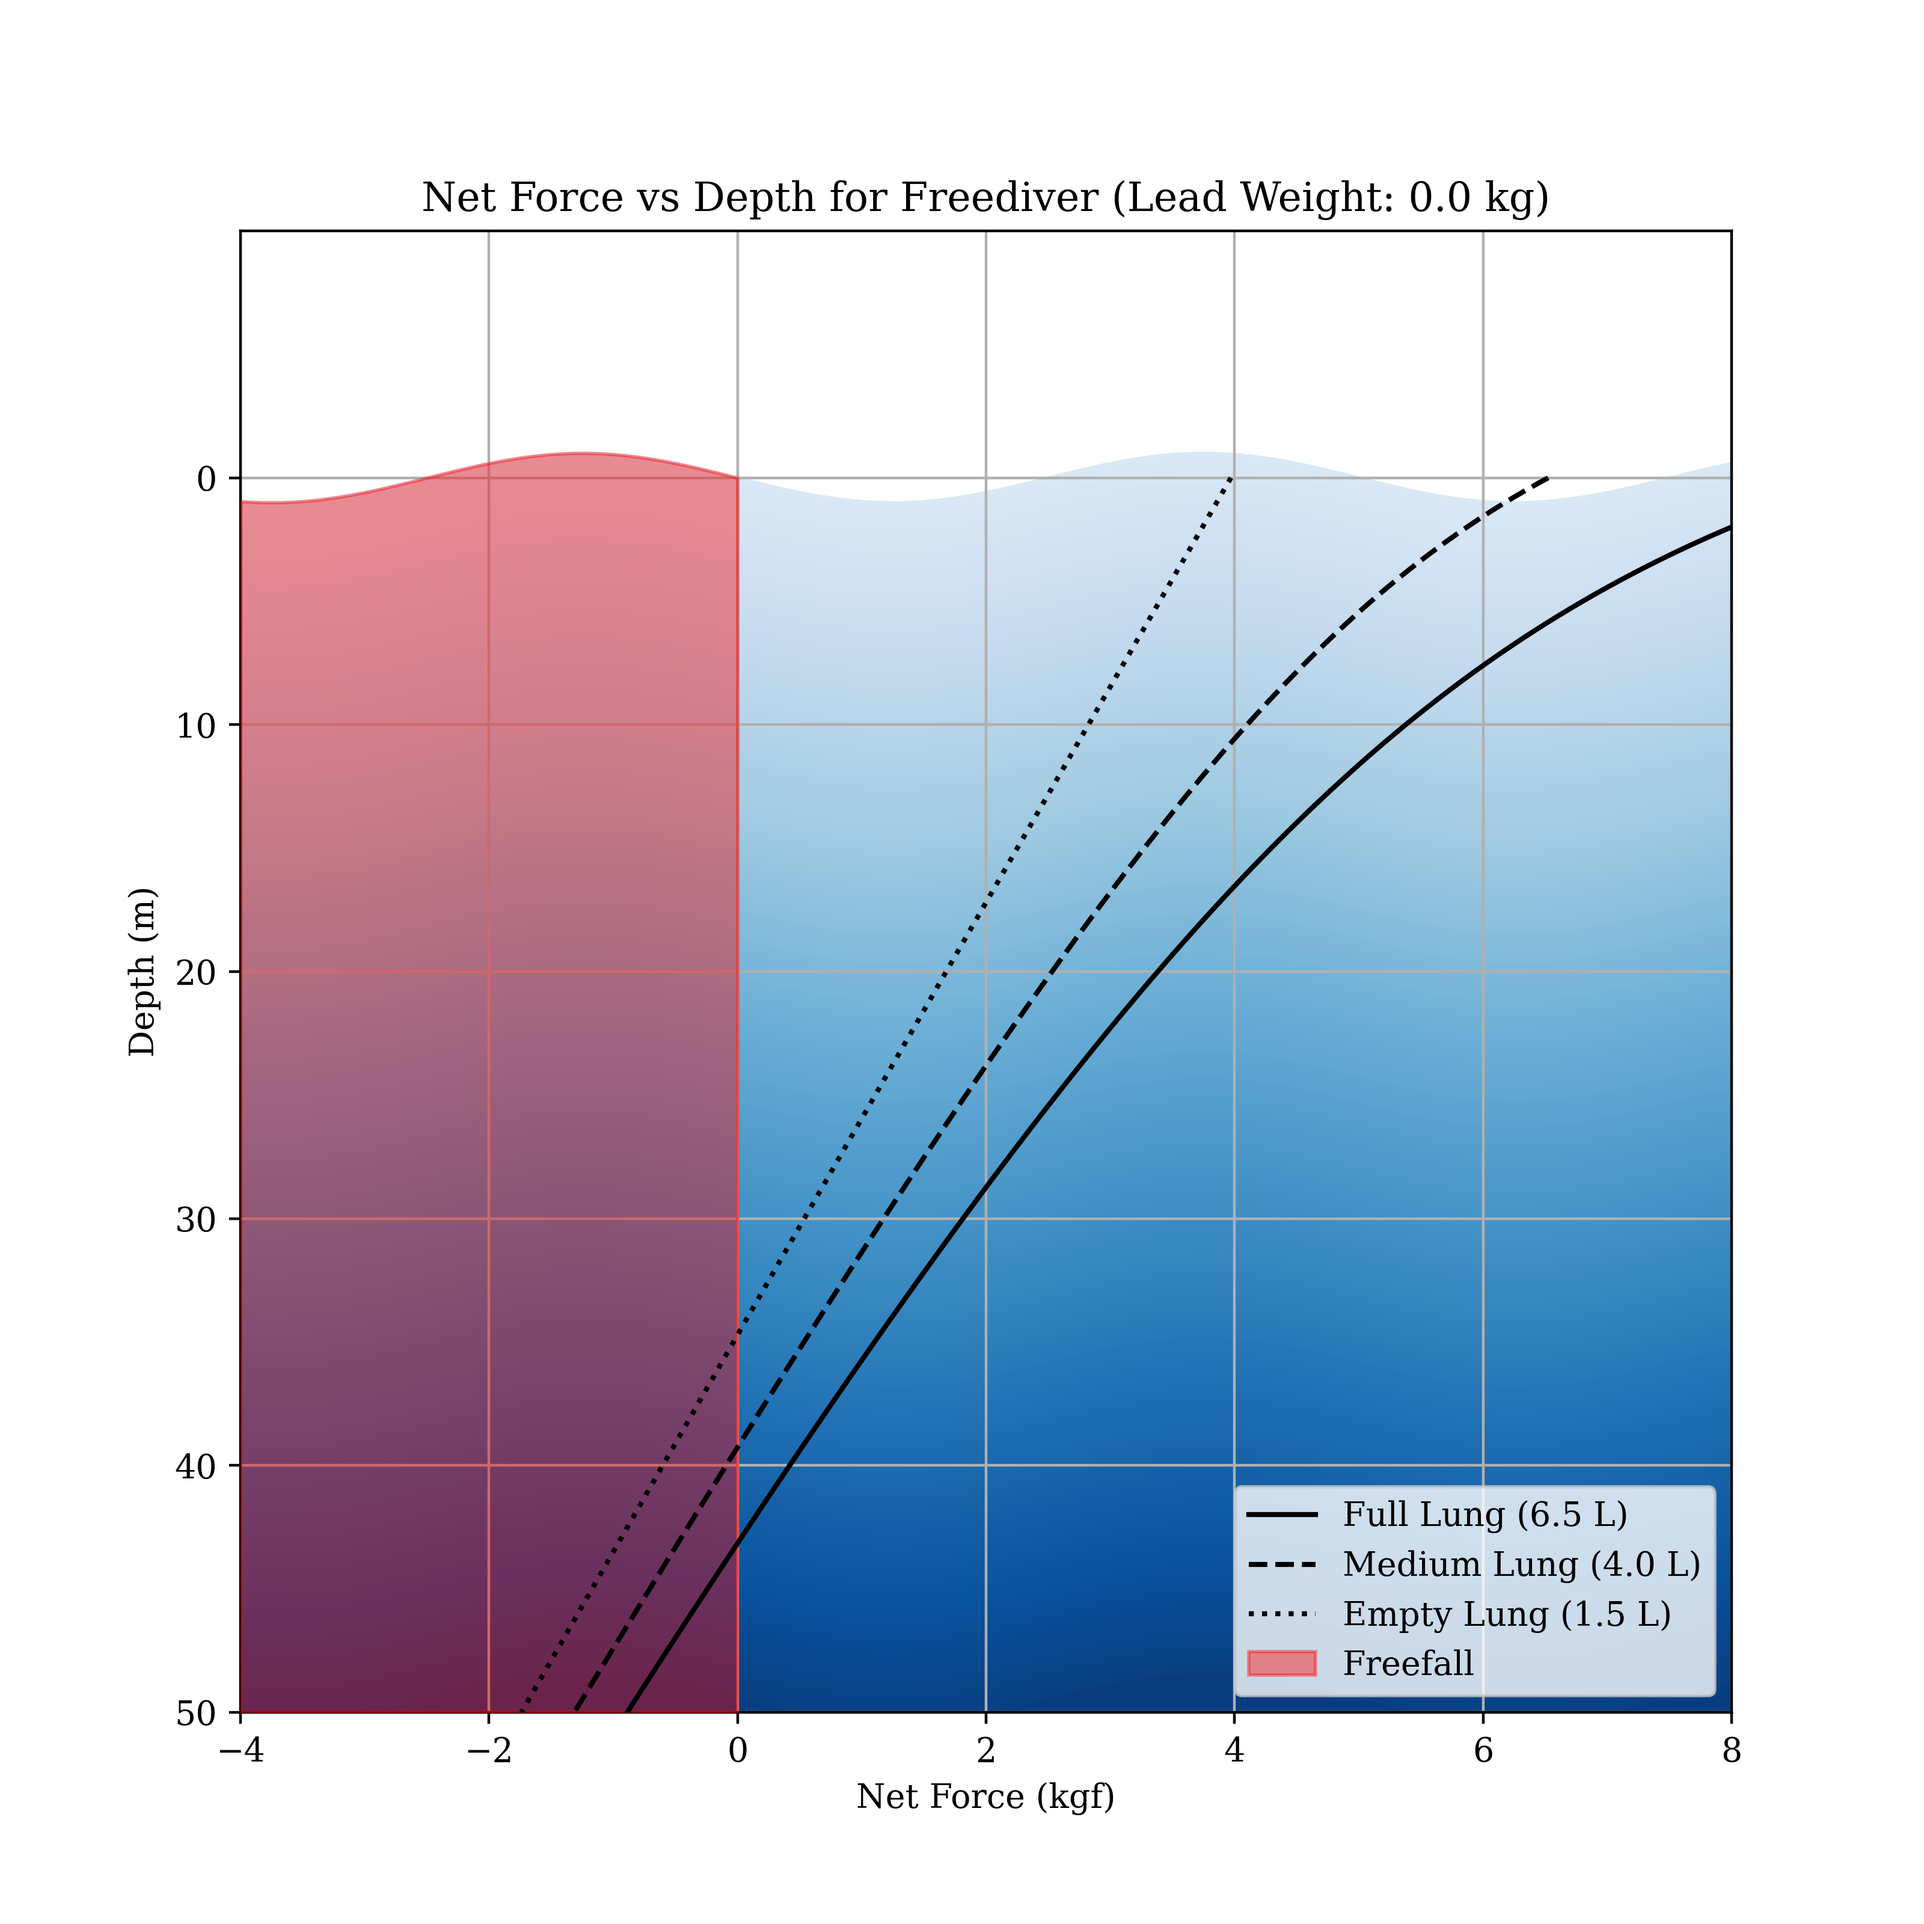
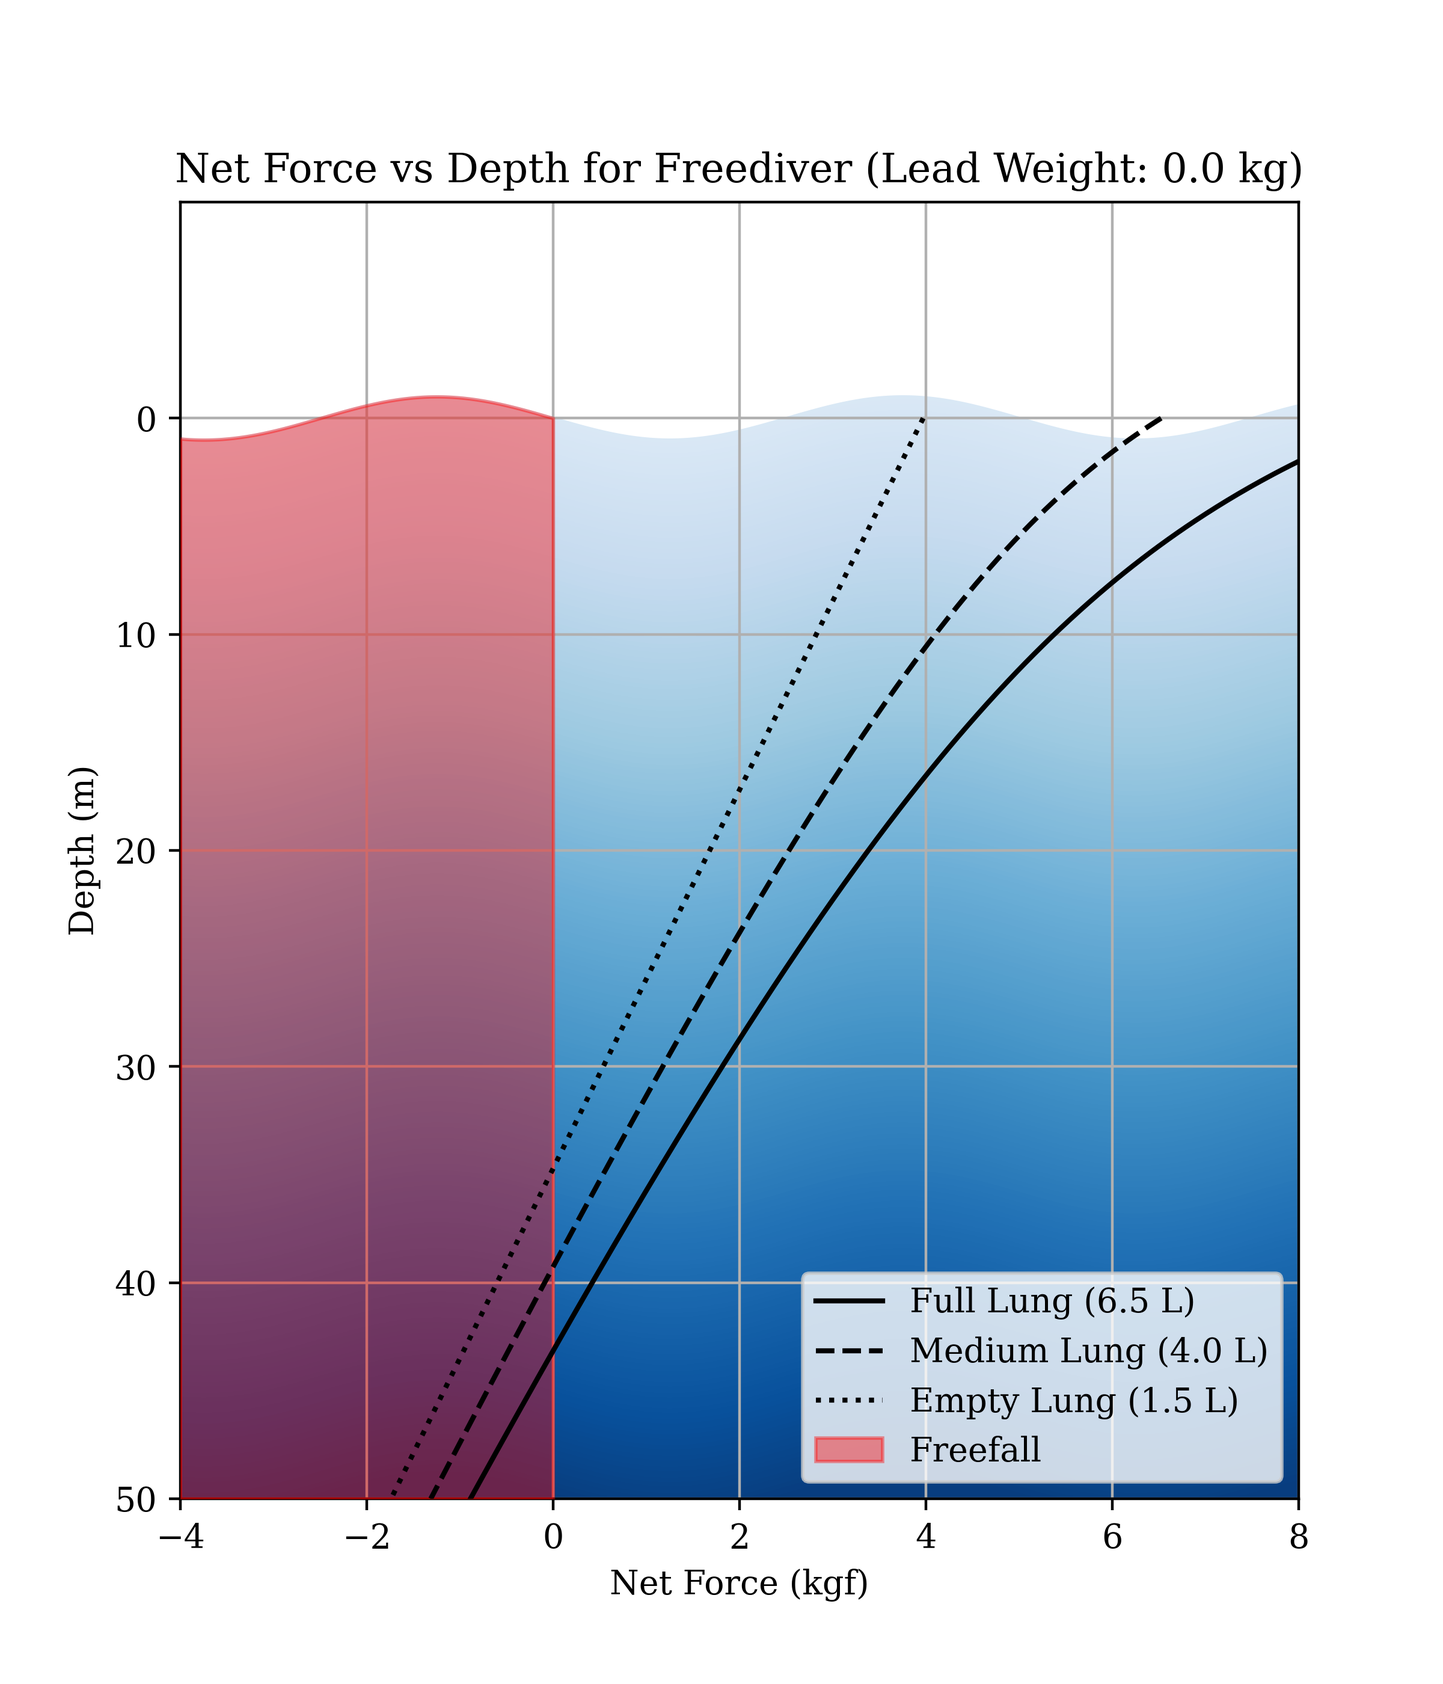
Improved README

diff --git a/freediving.py b/freediving.py
@@ -31,7 +31,7 @@ def plot_buoyancy_force_kgf(params):
         "empty_lung": {"linestyle": ":", "label": f"Empty Lung ({params['lung_volumes']['empty_lung']} L)"},
     }
 
-    plt.figure(figsize=(8, 8))
+    plt.figure(figsize=(6, 7))
     net_force_curves = {}
 
     for condition, lung_volume in params["lung_volumes"].items():
